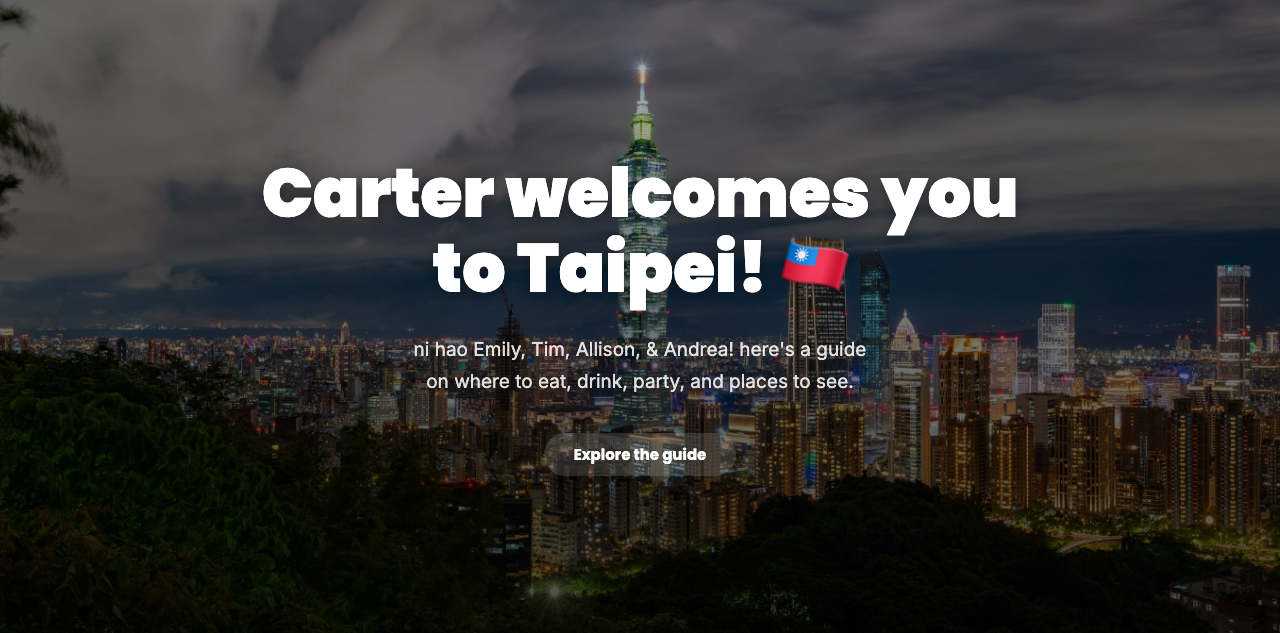
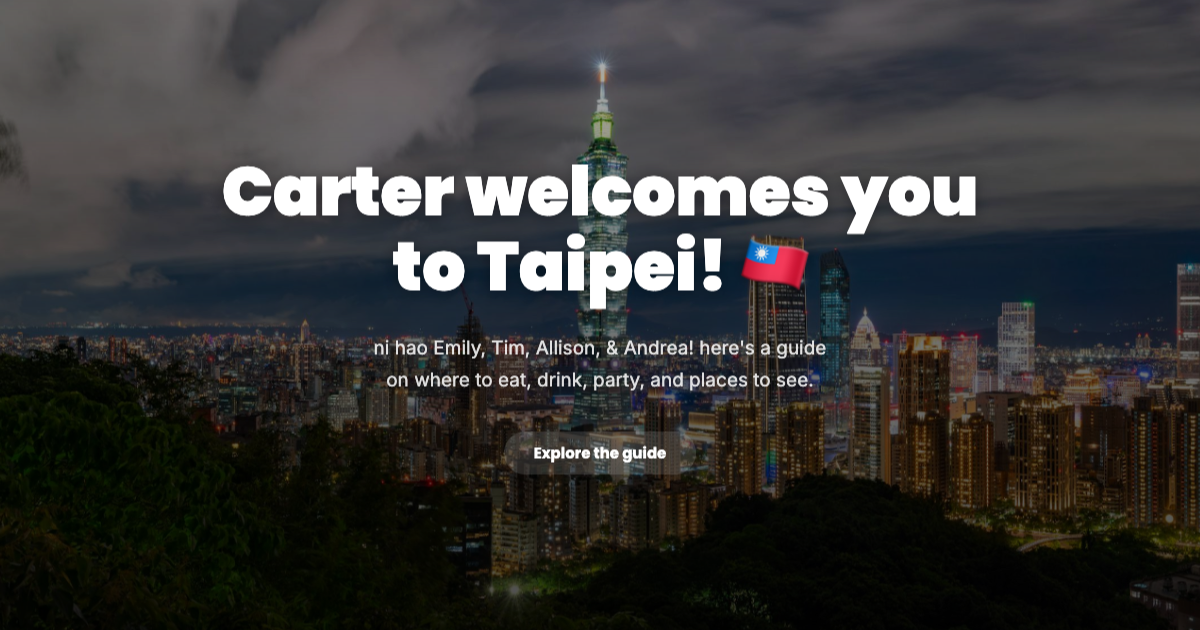
Improve messaging app link previews

diff --git a/index.html b/index.html
@@ -10,6 +10,8 @@
   />
   <meta name="theme-color" content="#fffbf5" />
   <meta property="og:url" content="https://taipei-guide-etaa.vercel.app/" />
+  <meta property="og:site_name" content="Carter's Taipei Guide" />
+  <meta property="og:locale" content="en_US" />
   <meta property="og:type" content="website" />
   <meta property="og:title" content="Carter's Taipei Guide" />
   <meta
@@ -17,16 +19,20 @@
     content="ni hao Emily, Tim, Allison, & Andrea! here's a guide on where to eat, drink, party, and places to see in Taipei."
   />
   <meta property="og:image" content="https://taipei-guide-etaa.vercel.app/assets/share-preview.png" />
-  <meta property="og:image:width" content="1280" />
-  <meta property="og:image:height" content="633" />
+  <meta property="og:image:secure_url" content="https://taipei-guide-etaa.vercel.app/assets/share-preview.png" />
+  <meta property="og:image:type" content="image/png" />
+  <meta property="og:image:width" content="1200" />
+  <meta property="og:image:height" content="630" />
   <meta property="og:image:alt" content="Carter welcomes you to Taipei over a night skyline hero image." />
   <meta name="twitter:card" content="summary_large_image" />
+  <meta name="twitter:url" content="https://taipei-guide-etaa.vercel.app/" />
   <meta name="twitter:title" content="Carter's Taipei Guide" />
   <meta
     name="twitter:description"
     content="ni hao Emily, Tim, Allison, & Andrea! here's a guide on where to eat, drink, party, and places to see in Taipei."
   />
   <meta name="twitter:image" content="https://taipei-guide-etaa.vercel.app/assets/share-preview.png" />
+  <meta name="twitter:image:alt" content="Carter welcomes you to Taipei over a night skyline hero image." />
   <link href="https://fonts.googleapis.com/css2?family=Poppins:wght@400;600;700;900&family=Inter:wght@400;500&display=swap" rel="stylesheet" />
   <style>
     :root {
